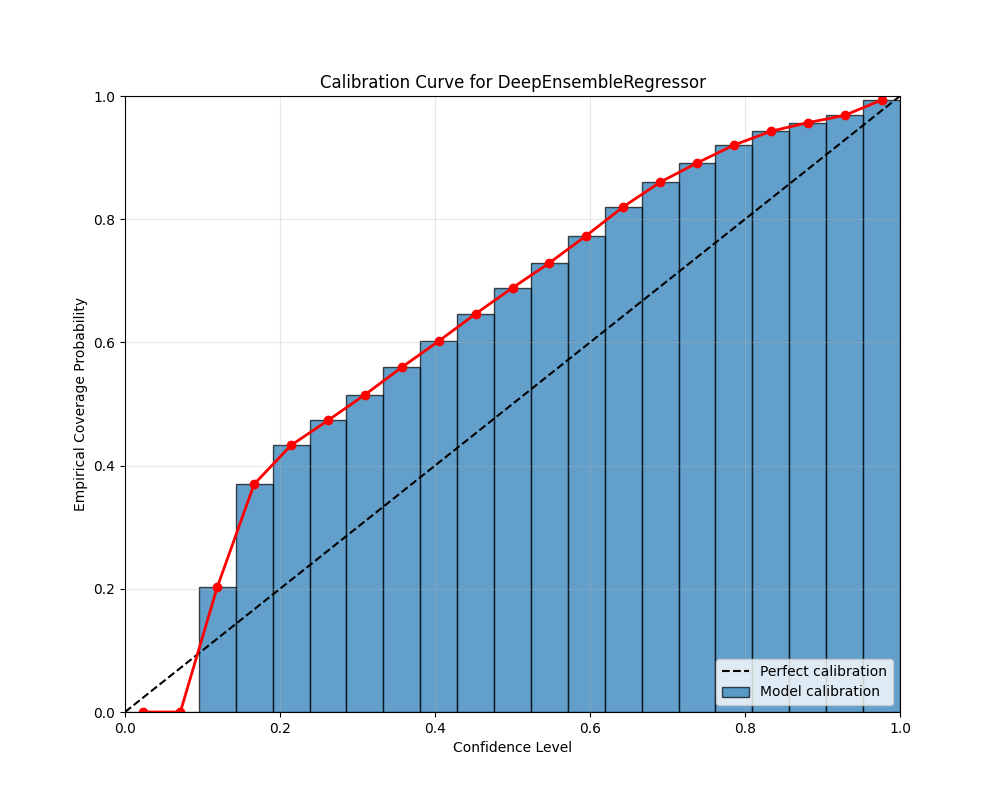
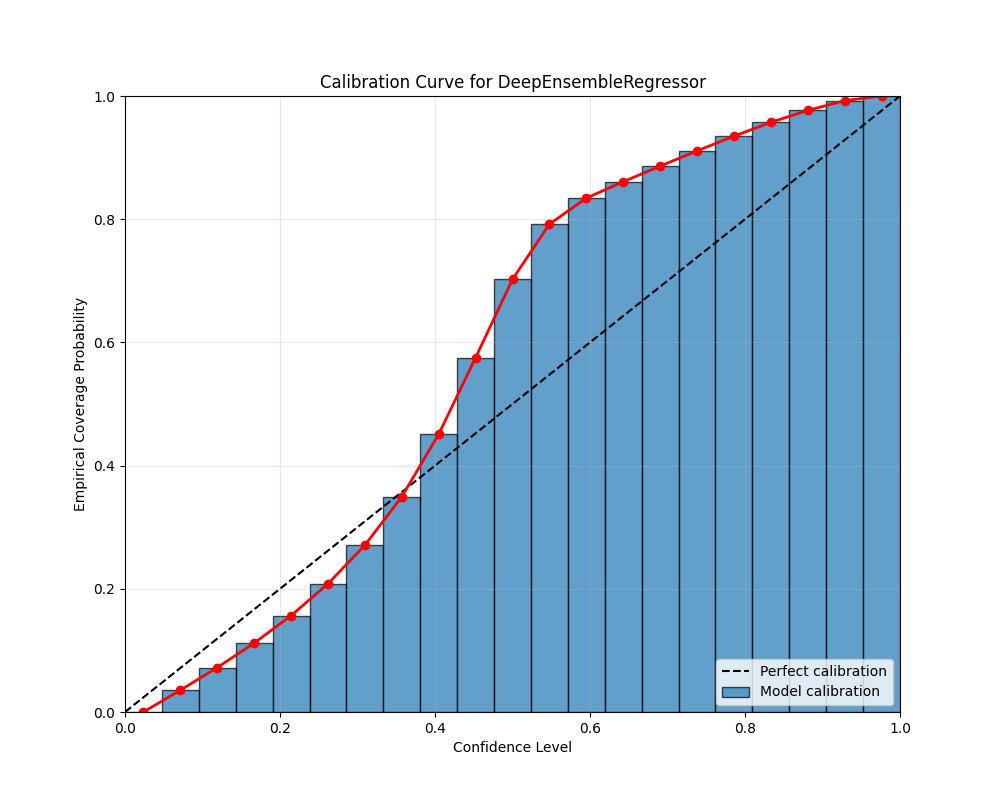
Fixed error with calibration

diff --git a/xai_gp/evaluation/calibration.py b/xai_gp/evaluation/calibration.py
@@ -140,17 +140,17 @@ def confidence_interval_accuracy(y_intervals, y_true):
 
 def regressor_calibration_curve(y_pred, y_true, y_std, num_points=20, distribution="gaussian"):
     """
-        Computes the reliability plot for a regression prediction.
-        :param y_pred: model predictions, usually the mean of the predicted distribution.
-        :param y_std: model predicted confidence, usually the standard deviation of the predicted distribution.
-        :param y_true: ground truth labels.
+    Computes the reliability plot for a regression prediction.
     """
     alphas = np.linspace(0.0 + EPSILON, 1.0 - EPSILON, num_points + 1)
     curve_conf = []
     curve_acc = []
 
     for alpha in alphas:
-        alpha_intervals = norm.interval(alpha, y_pred, y_std)
+        # Create a copy and ensure standard deviations are positive
+        y_std_safe = np.maximum(y_std, EPSILON)
+        
+        alpha_intervals = norm.interval(alpha, y_pred, y_std_safe)
         acc = confidence_interval_accuracy(alpha_intervals, y_true)
 
         curve_conf.append(alpha)
@@ -159,8 +159,28 @@ def regressor_calibration_curve(y_pred, y_true, y_std, num_points=20, distributi
     return np.array(curve_conf), np.array(curve_acc)
 
 
-def regressor_calibration_error(y_pred, y_true, y_std, num_points=20, distribution="gaussian", error_metric="mae"):
-    curve_conf, curve_acc = regressor_calibration_curve(y_pred, y_true, y_std, num_points=num_points,
+def regressor_calibration_error(y_pred=None, y_true=None, y_std=None, num_points=20, distribution="gaussian", error_metric="mae", 
+                                precomputed_conf=None, precomputed_acc=None):
+    """
+    Calculate calibration error for regression predictions.
+    
+    Args:
+        y_pred, y_true, y_std: Prediction data (not needed if precomputed values are provided)
+        num_points: Number of points for calibration curve (not needed if precomputed values are provided)
+        distribution: Distribution type (default: "gaussian")
+        error_metric: Error metric to use ("mae" or "max")
+        precomputed_conf: Precomputed confidence values from calibration curve
+        precomputed_acc: Precomputed accuracy values from calibration curve
+    
+    Returns:
+        Calibration error value
+    """
+    if precomputed_conf is not None and precomputed_acc is not None:
+        curve_conf, curve_acc = precomputed_conf, precomputed_acc
+    else:
+        if y_pred is None or y_true is None or y_std is None:
+            raise ValueError("Either prediction data or precomputed values must be provided")
+        curve_conf, curve_acc = regressor_calibration_curve(y_pred, y_true, y_std, num_points=num_points,
                                                         distribution=distribution)
     errors = np.abs(curve_conf - curve_acc)
 

diff --git a/xai_gp/main.py b/xai_gp/main.py
@@ -86,22 +86,19 @@ def initialize_model(cfg, input_shape, device):
         raise ValueError(f"Unknown model type: {cfg.model.type}")
 
     # Check if the model is a GP model using is_gp_model function
+    input_dim = input_shape[1]
+    
     if is_gp_model(model_class):
         model = model_class(
-            train_x_shape=input_shape,
+            input_dim=input_dim,
             hidden_layers_config=cfg.model.hidden_layers,
             num_inducing_points=cfg.model.num_inducing_points,
         ).to(device)
     else:
-
-        # For ensemble models, initialize with TwoHeadMLP as the base model
-        input_dim = input_shape[1]
-        output_dim = cfg.model.output_dim
-
         # Create a base model using TwoHeadMLP
         base_model = lambda: TwoHeadMLP(
             input_dim=input_dim,
-            output_dim=output_dim,
+            output_dim=cfg.model.output_dim,
             hidden_layers_config=cfg.model.hidden_layers
         )
 
@@ -248,17 +245,22 @@ def train_and_evaluate(model, train_loader, test_loader, optimizer, cfg):
     if cfg.data.task_type == "regression":
         # Calculate standard deviations from variances
         test_stds = np.sqrt(test_variances)
+        test_targets = test_targets.numpy()
 
-        # Calculate calibration error
-        calibration_error = regressor_calibration_error(test_means, test_stds, test_targets)
-        print(f"Calibration error: {calibration_error:.4f}")
-
-        # Get calibration curve data
+        # Get calibration curve data only once
         # conf represents confidence levels (alphas)
         # acc represents empirical coverage probabilities
-        conf, acc = regressor_calibration_curve(test_means, test_stds, test_targets)
+        conf, acc = regressor_calibration_curve(test_means, test_targets, test_stds)
 
-        # Plot the calibration curve
+        # Calculate calibration error using pre-computed curve data
+        calibration_error = regressor_calibration_error(
+            error_metric="mae",
+            precomputed_conf=conf,
+            precomputed_acc=acc
+        )
+        print(f"Calibration error: {calibration_error:.4f}")
+
+        # Plot the calibration curve using the already computed data
         plot_title = f"Calibration Curve for {cfg.model.type}"
         plot_calibration_curve(conf, acc, title=plot_title,
                                relative_save_path=f'calibration_{cfg.model.type}_{cfg.data.name}.png')
